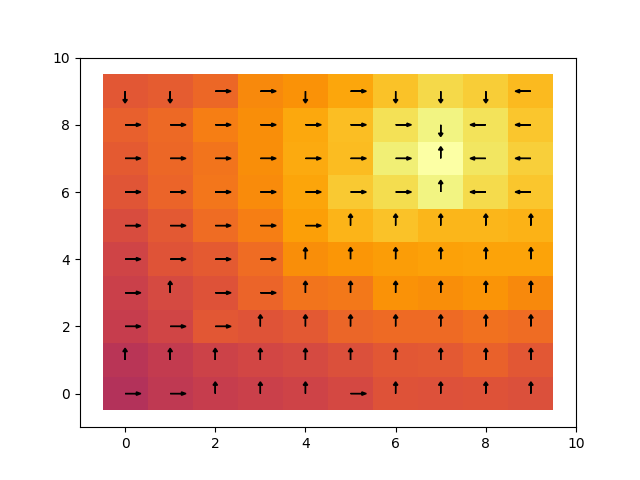
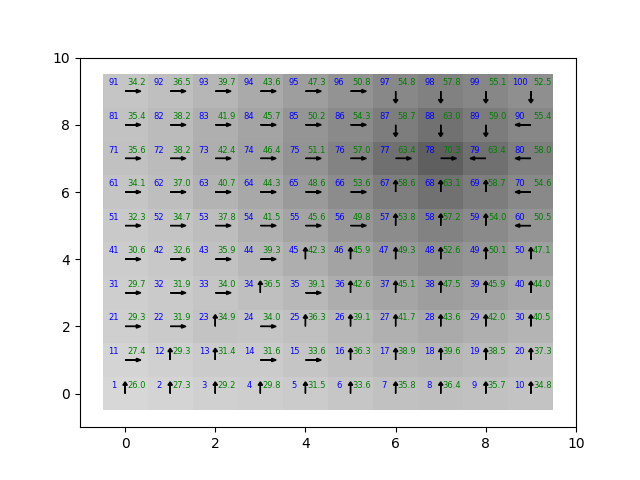
polciy eval fix

diff --git a/grid_world_mdp.py b/grid_world_mdp.py
@@ -5,7 +5,7 @@ import numpy as np
 import matplotlib.patches as patches
 import pylab as pylab
 
-plt.ion()
+#plt.ion()
 
 data_set = 'data/small.csv'
 data = genfromtxt(data_set, dtype='int64', delimiter=',',skip_header=True)
@@ -17,43 +17,52 @@ def Q_max(Q,s):
 			max_r = reward
 	return max_r
 
-def Q_neighbors(grid,i,j):
-	max_r = 0
-	max_a = -1
-	if(i - 1 >= 0):
-		if(grid[i-1,j] > max_r):
-			max_r = grid[i-1,j]
-			max_a = 0
-	if(i + 1 < 10):
-		if(grid[i+1,j] > max_r):
-			max_a = 1
-			max_r = grid[i+1,j]
-	if(j + 1 < 10):
-		if(grid[i,j+1] > max_r):
-			max_a = 2
-			max_r = grid[i,j+1]
-	if(j - 1 >= 0):
-		if(grid[i,j-1] > max_r):
-			max_a = 3
+def get_MLE_T(data):
+	sas_p = {}
+	sa_n = {}
 
-	return max_a
+	for i in range(len(data[:,0])):
+		if not((data[i,0],data[i,1]) in sa_n):
+			sa_n[(data[i,0],data[i,1])] = 1
+		else:
+			sa_n[(data[i,0],data[i,1])] += 1
+
+		if not((data[i,0],data[i,1],data[i,3]) in sas_p):
+			sas_p[(data[i,0],data[i,1],data[i,3])] = 1
+		else:
+			sas_p[(data[i,0],data[i,1],data[i,3])] += 1
+			
+
+	for key,value in sas_p.items():
+		sas_p[key] /= sa_n[key[:2]]
+
+def get_action_P(sa_tuple,sas):
+	s_next = {}
+	for key, value in sas.items():
+		if(key[:2] == sa_tuple):
+			s_next[key[2]] = value
+	print(s_next)
 
 def plot_stage(ax,Q):
 	grid = np.zeros((10,10))
 	index = 0
-	reds = plt.get_cmap('inferno')
+	reds = plt.get_cmap('Greys')
 	max_q = np.max(Q)
 	print(max_q)
 	min_q = np.min(Q)
-	for i in range(10):
-		for j in range(10):
-			r_sum = np.sum(Q[index,:])
-			ax.add_patch(patches.Rectangle((i-.5, j-.5),1,1,facecolor = reds(r_sum/300)))
-			grid[i,j] = r_sum
+	for j in range(10):
+		for i in range(10):
+			r_m= np.max(Q[index,:])
+			ax.add_patch(patches.Rectangle((i-.5, j-.5),1,1,facecolor = reds(r_m/100)))
+			grid[i,j] = r_m
 			index += 1
-	for i in range(10):
-		for j in range(10):
-			a = Q_neighbors(grid,i,j)
+	print(grid)
+	index = 1
+	for j in range(10):
+		for i in range(10):
+			a = np.argmax(Q[index-1,:])
+			ax.text(i+.25, j+.25, "{:.1f}".format(grid[i,j]), ha="center", va="center",size=6,color='g')
+			ax.text(i-.25, j+.25, "{:d}".format(index), ha="center", va="center",size=6,color='b')
 			if(a == 0):
 				ax.arrow(i, j, -.25, 0, head_width=0.1, head_length=0.1, fc='k', ec='k')
 			elif(a == 1):
@@ -67,7 +76,7 @@ def plot_stage(ax,Q):
 				ax.arrow(i, j, 0, .25, head_width=0.1, head_length=0.1, fc='k', ec='k')
 				ax.arrow(i, j, .25, 0, head_width=0.1, head_length=0.1, fc='k', ec='k')
 				ax.arrow(i, j, -.25, 0, head_width=0.1, head_length=0.1, fc='k', ec='k')
-
+			index += 1
 	ax.set_xlim(-1,10)
 	ax.set_ylim(-1,10)
 
@@ -75,7 +84,7 @@ def plot_stage(ax,Q):
 
 
 gamma = .95
-alpha = .5
+alpha = .01
 n_states = 100
 n_actions = 4
 n_samples = len(data[:,0])
@@ -84,15 +93,10 @@ t = 0
 s = data[0,0]
 Q = np.zeros((100,4))
 ax = plt.axes()
-for i in range(n_samples):
-	Q[data[i,0]-1,data[i,1]-1] += alpha*(data[i,2]+gamma*Q_max(Q,data[i,3])-Q[data[i,0]-1,data[i,1]-1])
-	if((i+1)%5000 == 0):
-		plot_stage(ax,Q)
-		if(i != 49999):
-			plt.pause(.15)
-			plt.cla()
-		else:
-			plt.pause(100)
-		print(i)
+for k in range(200):
+	for i in range(n_samples):
+		Q[data[i,0]-1,data[i,1]-1] += alpha*(data[i,2]+gamma*Q_max(Q,data[i,3])-Q[data[i,0]-1,data[i,1]-1])
 
-
+	print(k)
+plot_stage(ax,Q)
+plt.show()

diff --git a/README.md b/README.md
@@ -1,1 +1,4 @@
-"# mdp" 
+"# mdp"
+
+# Small grid world mdp with 50000 (S,A,R,S) data tuples
+![alt text](https://github.com/AaronHavens/mdp/blob/master/images/grid_mdp.png) 
